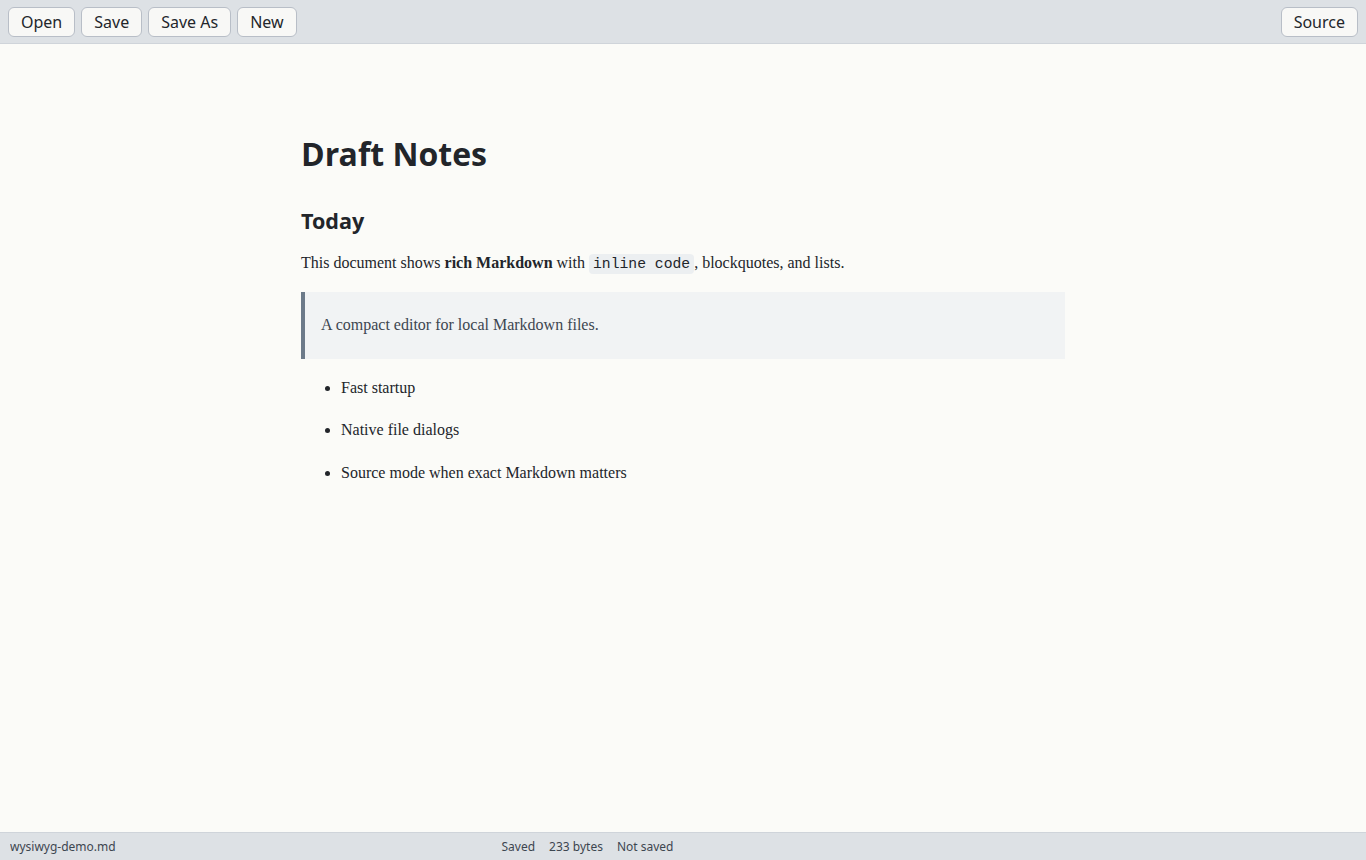
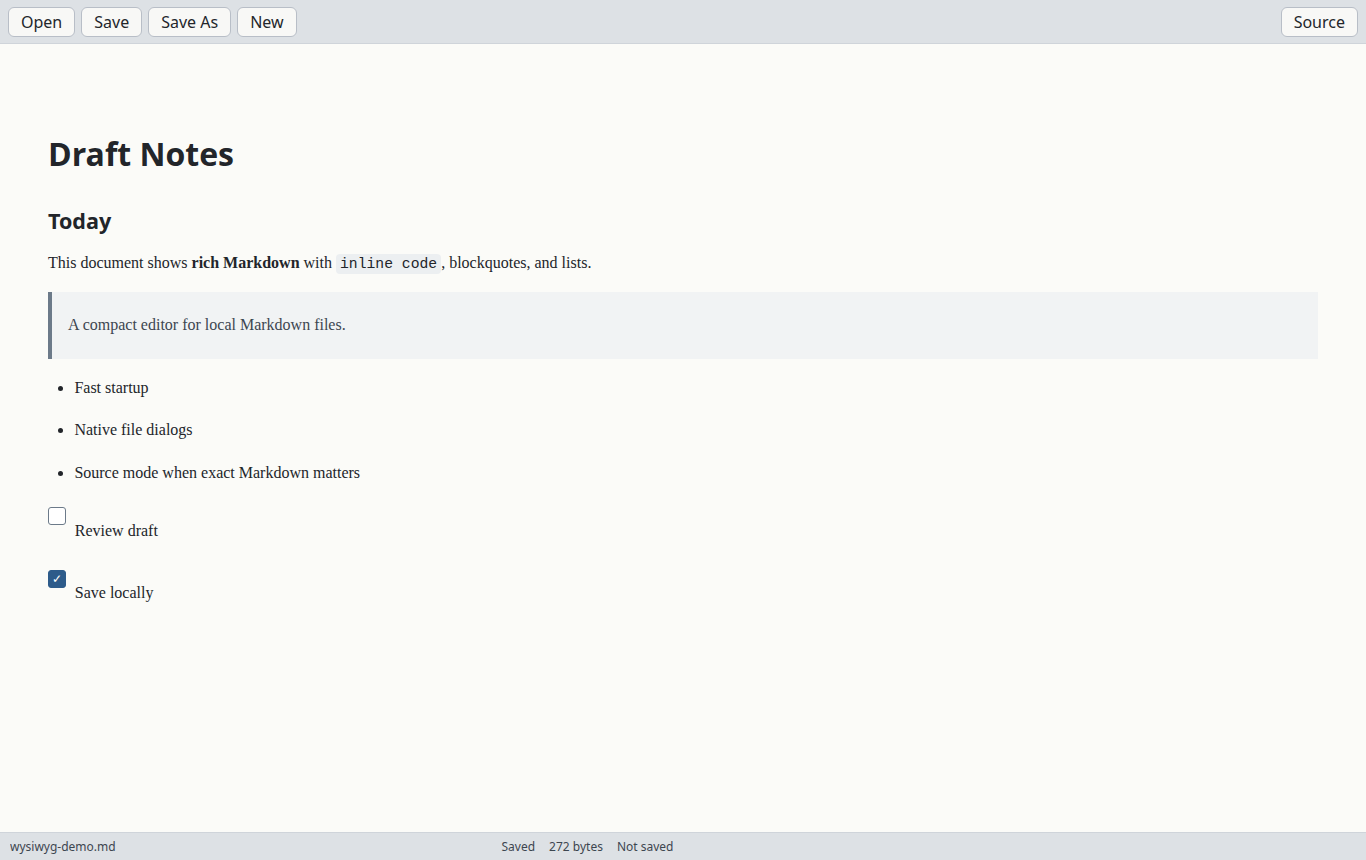
Fix editor width and task list checkboxes

diff --git a/src/features/editor/milkdown.css b/src/features/editor/milkdown.css
@@ -11,7 +11,7 @@
 .milkdown .ProseMirror {
   box-sizing: border-box;
   min-height: 100%;
-  max-width: 860px;
+  width: 100%;
   margin: 0 auto;
   padding: 40px 48px 64px;
   color: #22252a;
@@ -42,6 +42,68 @@
   border-left: 4px solid #6c7a89;
   color: #3d4650;
   background: #f1f3f4;
+}
+
+.milkdown .ProseMirror ul,
+.milkdown .ProseMirror ol {
+  padding-left: 1.65rem;
+}
+
+.milkdown .ProseMirror li {
+  margin: 0.25rem 0;
+}
+
+.milkdown .ProseMirror li[data-item-type="task"] {
+  display: flex;
+  align-items: flex-start;
+  gap: 0.55rem;
+  list-style: none;
+  margin-left: -1.65rem;
+}
+
+.milkdown .ProseMirror li[data-item-type="task"]::before {
+  content: "";
+  display: inline-flex;
+  align-items: center;
+  justify-content: center;
+  flex: 0 0 auto;
+  width: 16px;
+  height: 16px;
+  margin-top: 0.33rem;
+  border: 1.5px solid #6c7a89;
+  border-radius: 3px;
+  background: #fff;
+  color: #fff;
+  font-family: ui-sans-serif, system-ui, -apple-system, BlinkMacSystemFont, "Segoe UI",
+    sans-serif;
+  font-size: 12px;
+  font-weight: 700;
+  line-height: 1;
+}
+
+.milkdown .ProseMirror li[data-item-type="task"][data-checked="true"]::before {
+  content: "✓";
+  border-color: #2d5b8a;
+  background: #2d5b8a;
+}
+
+.milkdown .ProseMirror li[data-item-type="task"] > label {
+  flex: 0 0 auto;
+  line-height: 1.65;
+  user-select: none;
+}
+
+.milkdown .ProseMirror li[data-item-type="task"] > div,
+.milkdown .ProseMirror li[data-item-type="task"] > p {
+  flex: 1 1 auto;
+  min-width: 0;
+}
+
+.milkdown .ProseMirror input[type="checkbox"] {
+  width: 16px;
+  height: 16px;
+  margin: 0.32rem 0 0;
+  accent-color: #2d5b8a;
 }
 
 .milkdown .ProseMirror code {

diff --git a/src/App.tsx b/src/App.tsx
@@ -51,6 +51,9 @@ This document shows **rich Markdown** with \`inline code\`, blockquotes, and lis
 - Fast startup
 - Native file dialogs
 - Source mode when exact Markdown matters
+
+- [ ] Review draft
+- [x] Save locally
 `;
 
 export default function App() {